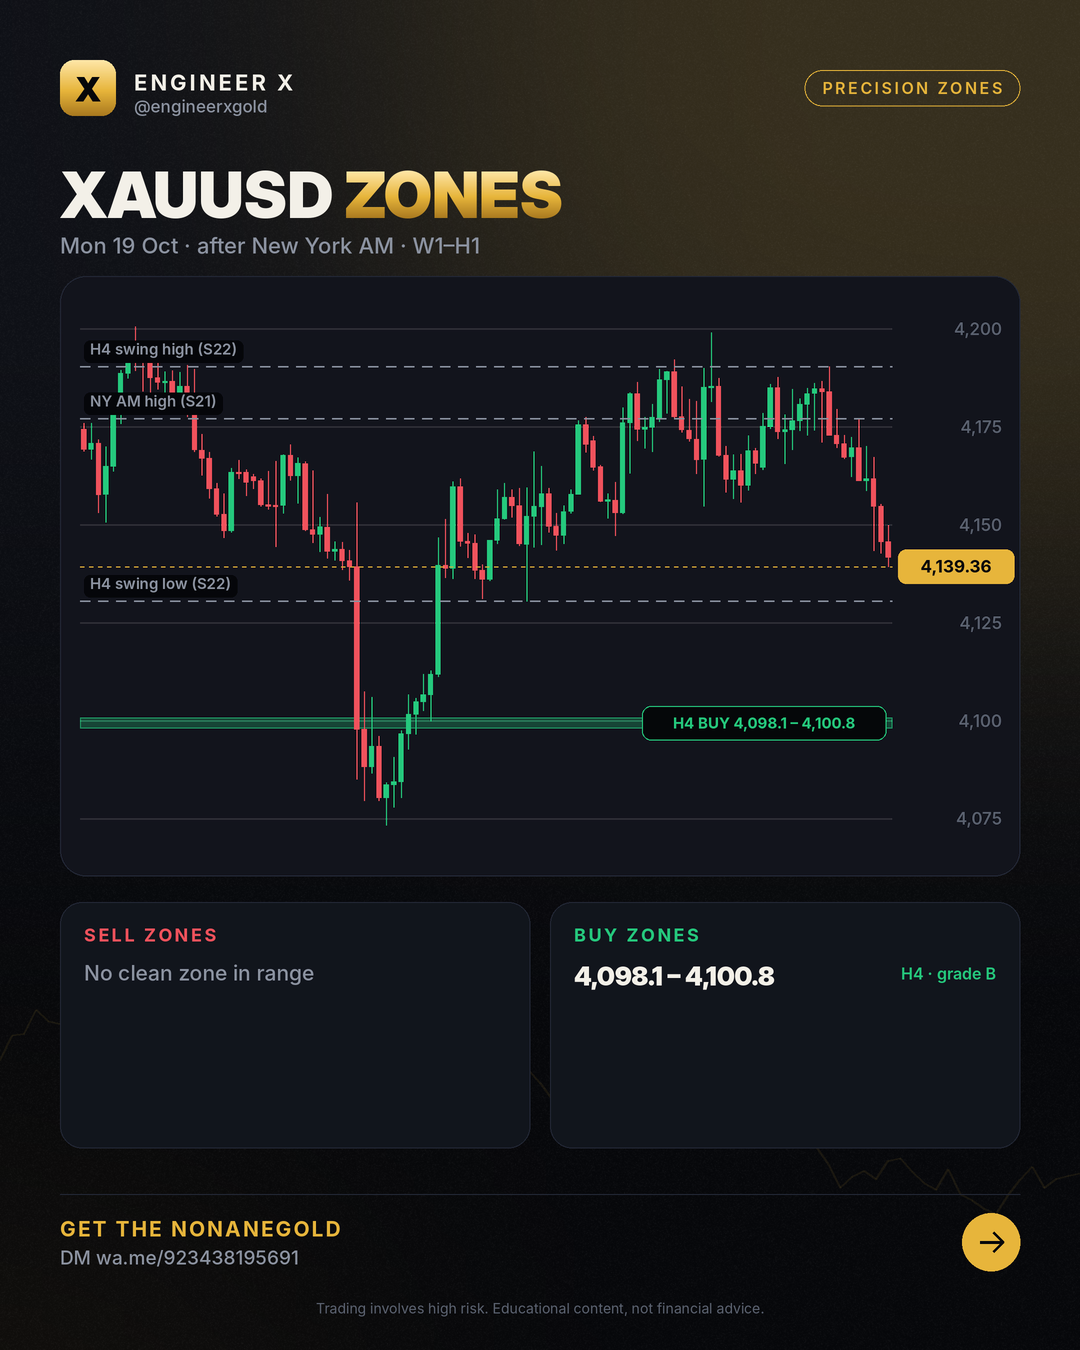
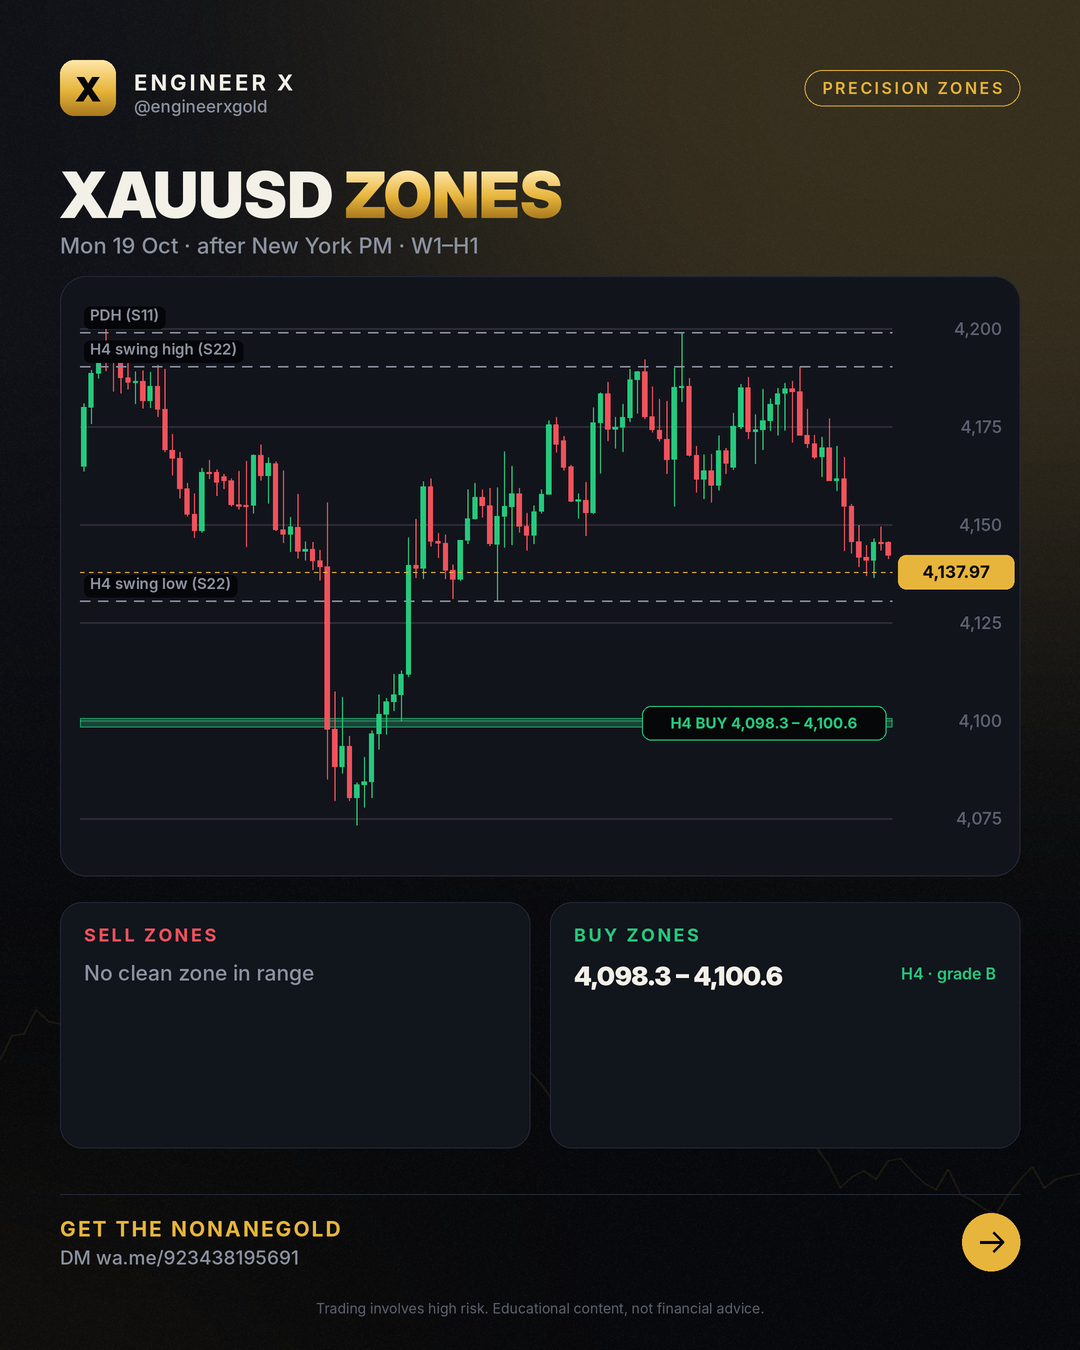
zones 2026-10-19 Mon 19 Oct · after New York PM · W1–H1

diff --git a/zones/2026-10-19/index.html b/zones/2026-10-19/index.html
@@ -4,7 +4,7 @@
 <meta charset="utf-8">
 <meta name="viewport" content="width=device-width,initial-scale=1">
 <title>Xauusd Price – 19 Oct 2026 (W1–H1)</title>
-<meta name="description" content="XAUUSD buy and sell zones for 2026-10-19: tested W1, D1, H4 and H1 zones with invalidation levels, updated after the Asian, London and New York sessions. Price 4,139.36.">
+<meta name="description" content="XAUUSD buy and sell zones for 2026-10-19: tested W1, D1, H4 and H1 zones with invalidation levels, updated after the Asian, London and New York sessions. Price 4,137.97.">
 <meta name="robots" content="index,follow,max-image-preview:large,max-snippet:-1,max-video-preview:-1">
 <meta name="author" content="Engr. M Ahmad Mehmood">
 <link rel="canonical" href="https://engineerxgold.github.io/zones/2026-10-19/">
@@ -12,7 +12,7 @@
 <link rel="apple-touch-icon" href="../../img/logo.png">
 <meta property="og:site_name" content="Engineer X">
 <meta property="og:title" content="Xauusd Price – 19 Oct 2026 (W1–H1)">
-<meta property="og:description" content="XAUUSD buy and sell zones for 2026-10-19: tested W1, D1, H4 and H1 zones with invalidation levels, updated after the Asian, London and New York sessions. Price 4,139.36.">
+<meta property="og:description" content="XAUUSD buy and sell zones for 2026-10-19: tested W1, D1, H4 and H1 zones with invalidation levels, updated after the Asian, London and New York sessions. Price 4,137.97.">
 <meta property="og:type" content="article">
 <meta property="og:url" content="https://engineerxgold.github.io/zones/2026-10-19/">
 <meta property="og:image" content="https://engineerxgold.github.io/zones/img/2026-10-19.png">
@@ -22,7 +22,7 @@
 <meta property="og:locale" content="en_US">
 <meta name="twitter:card" content="summary_large_image">
 <meta name="twitter:title" content="Xauusd Price – 19 Oct 2026 (W1–H1)">
-<meta name="twitter:description" content="XAUUSD buy and sell zones for 2026-10-19: tested W1, D1, H4 and H1 zones with invalidation levels, updated after the Asian, London and New York sessions. Price 4,139.36.">
+<meta name="twitter:description" content="XAUUSD buy and sell zones for 2026-10-19: tested W1, D1, H4 and H1 zones with invalidation levels, updated after the Asian, London and New York sessions. Price 4,137.97.">
 <meta name="twitter:image" content="https://engineerxgold.github.io/zones/img/2026-10-19.png">
 <meta name="twitter:image:alt" content="Xauusd Price – 19 Oct 2026 (W1–H1)">
 
@@ -32,7 +32,7 @@
 <link rel="preconnect" href="https://fonts.googleapis.com">
 <link rel="preconnect" href="https://fonts.gstatic.com" crossorigin>
 <link href="https://fonts.googleapis.com/css2?family=Inter:wght@400;500;600;800;900&display=swap" rel="stylesheet">
-<script type="application/ld+json">{"@context": "https://schema.org", "@type": "Organization", "@id": "https://engineerxgold.github.io/#organization", "name": "Engineer X", "url": "https://engineerxgold.github.io/", "logo": {"@type": "ImageObject", "url": "https://engineerxgold.github.io/img/logo.png", "width": 512, "height": 512}, "sameAs": ["https://t.me/engineerxgold"]}</script><script type="application/ld+json">{"@context": "https://schema.org", "@type": "Article", "headline": "Xauusd Price – 19 Oct 2026 (W1–H1)", "datePublished": "2026-10-19T08:00:00+05:00", "dateModified": "2026-10-19T21:03:57+05:00", "author": {"@type": "Person", "@id": "https://engineerxgold.github.io/about/#author", "name": "Engr. M Ahmad Mehmood", "url": "https://engineerxgold.github.io/about/", "jobTitle": "MQL5 Expert Advisor developer and gold market analyst", "worksFor": {"@id": "https://engineerxgold.github.io/#organization"}}, "publisher": {"@id": "https://engineerxgold.github.io/#organization"}, "image": "https://engineerxgold.github.io/zones/img/2026-10-19.png", "mainEntityOfPage": "https://engineerxgold.github.io/zones/2026-10-19/"}</script>
+<script type="application/ld+json">{"@context": "https://schema.org", "@type": "Organization", "@id": "https://engineerxgold.github.io/#organization", "name": "Engineer X", "url": "https://engineerxgold.github.io/", "logo": {"@type": "ImageObject", "url": "https://engineerxgold.github.io/img/logo.png", "width": 512, "height": 512}, "sameAs": ["https://t.me/engineerxgold"]}</script><script type="application/ld+json">{"@context": "https://schema.org", "@type": "Article", "headline": "Xauusd Price – 19 Oct 2026 (W1–H1)", "datePublished": "2026-10-19T08:00:00+05:00", "dateModified": "2026-10-20T02:03:03+05:00", "author": {"@type": "Person", "@id": "https://engineerxgold.github.io/about/#author", "name": "Engr. M Ahmad Mehmood", "url": "https://engineerxgold.github.io/about/", "jobTitle": "MQL5 Expert Advisor developer and gold market analyst", "worksFor": {"@id": "https://engineerxgold.github.io/#organization"}}, "publisher": {"@id": "https://engineerxgold.github.io/#organization"}, "image": "https://engineerxgold.github.io/zones/img/2026-10-19.png", "mainEntityOfPage": "https://engineerxgold.github.io/zones/2026-10-19/"}</script>
 
 <style>
 :root{--gold:#E7B53B;--gold-hi:#FFE7A8;--bg:#07080B;--bg2:#0E1016;--panel:#12151D;--line:#232836;--green:#25C97D;--red:#F0525C;--text:#F3F0E8;--muted:#8C93A1}
@@ -101,7 +101,7 @@ footer .fl a{color:var(--muted);margin-right:16px}
 <div class="wrap">
 <nav><a class="logo" href="../../"><b>X</b>Engineer X</a>
 <div class="links"><a href="../../zones/">Daily Zones</a><a href="../../blog/">Learn</a><a href="../../ea/">Gold EA</a><a href="../../about/">About</a><a class="cta" href="https://wa.me/923438195691">Get the EA</a></div></nav>
-<article><p class="crumbs"><a href="../../">Home</a> › <a href="../">Zones</a> › 2026-10-19</p><h1>Xauusd Price – 19 Oct 2026 (W1–H1)</h1><p class="byline">Mon 19 Oct · after New York AM · W1–H1 · by Engr. M Ahmad Mehmood</p><img src="../img/2026-10-19.png" alt="XAUUSD zone map 2026-10-19" width="1080" height="1350" loading="eager"><h2>Zones</h2><div style="overflow-x:auto"><table style="width:100%;border-collapse:collapse;font-size:15px"><tr><th align=left>Zone</th><th align=left>Price band</th><th>Grade</th><th align=left>Invalid</th><th align=left>Why</th></tr><tr><td>H4 buy</td><td><b>4,098.11 – 4,100.79</b></td><td>B</td><td>below 4,086.02</td><td>OTE 0.705 of the H4 leg 4073.37 → 4161.78 (S35; 0.62–0.79 = 4106.97–4091.94)</td></tr></table></div><h2>How to read this map</h2><p>Bands are where price is expected to react; they are not entries. Trading beyond the invalidation price ends the zone; each zone counts once (first touch). Highs and lows listed as liquidity are targets: on 10 years of gold price ran through them more often than through random levels.</p><div class="ctabox"><h3>🤖 Trade the zones with the NonaneGold</h3><p>Free signals group access + setup help Message us and we will help you set it up.</p><div class="btns"><a class="btn gold" href="https://wa.me/923438195691">Get the EA on Telegram</a><a class="btn ghost" href="../../ea/">About the EA</a></div></div></article>
+<article><p class="crumbs"><a href="../../">Home</a> › <a href="../">Zones</a> › 2026-10-19</p><h1>Xauusd Price – 19 Oct 2026 (W1–H1)</h1><p class="byline">Mon 19 Oct · after New York PM · W1–H1 · by Engr. M Ahmad Mehmood</p><img src="../img/2026-10-19.png" alt="XAUUSD zone map 2026-10-19" width="1080" height="1350" loading="eager"><h2>Zones</h2><div style="overflow-x:auto"><table style="width:100%;border-collapse:collapse;font-size:15px"><tr><th align=left>Zone</th><th align=left>Price band</th><th>Grade</th><th align=left>Invalid</th><th align=left>Why</th></tr><tr><td>H4 buy</td><td><b>4,098.28 – 4,100.63</b></td><td>B</td><td>below 4,087.70</td><td>OTE 0.705 of the H4 leg 4073.37 → 4161.78 (S35; 0.62–0.79 = 4106.97–4091.94)</td></tr></table></div><h2>How to read this map</h2><p>Bands are where price is expected to react; they are not entries. Trading beyond the invalidation price ends the zone; each zone counts once (first touch). Highs and lows listed as liquidity are targets: on 10 years of gold price ran through them more often than through random levels.</p><div class="ctabox"><h3>🤖 Trade the zones with the NonaneGold</h3><p>Free signals group access + setup help Message us and we will help you set it up.</p><div class="btns"><a class="btn gold" href="https://wa.me/923438195691">Get the EA on Telegram</a><a class="btn ghost" href="../../ea/">About the EA</a></div></div></article>
 <footer>
 <div class="warn"><b>Risk warning:</b> Trading gold, forex and CFDs carries a high risk of losing money and is not suitable for everyone. Past results do not guarantee future results. Everything on this site is educational and not financial advice. We are an introducing partner of our broker and may earn a commission on accounts opened through our link.</div>
 <p class="fl" style="margin-top:18px"><a href="../../about/">About &amp; methodology</a><a href="../../privacy.html">Privacy</a><a href="../../terms.html">Terms &amp; risk disclosure</a><a href="../../feed.xml">RSS</a><a href="https://t.me/engineerxgold">Telegram</a></p>

diff --git a/zones/index.html b/zones/index.html
@@ -4,7 +4,7 @@
 <meta charset="utf-8">
 <meta name="viewport" content="width=device-width,initial-scale=1">
 <title>XAUUSD Zones Today – Buy &amp; Sell Zones (H4, H1) | Engineer X</title>
-<meta name="description" content="XAUUSD buy and sell zones for 2026-10-19: tested W1, D1, H4 and H1 zones with invalidation levels, updated after the Asian, London and New York sessions. Price 4,139.36.">
+<meta name="description" content="XAUUSD buy and sell zones for 2026-10-19: tested W1, D1, H4 and H1 zones with invalidation levels, updated after the Asian, London and New York sessions. Price 4,137.97.">
 <meta name="robots" content="index,follow,max-image-preview:large,max-snippet:-1,max-video-preview:-1">
 <meta name="author" content="Engr. M Ahmad Mehmood">
 <link rel="canonical" href="https://engineerxgold.github.io/zones/">
@@ -12,7 +12,7 @@
 <link rel="apple-touch-icon" href="../img/logo.png">
 <meta property="og:site_name" content="Engineer X">
 <meta property="og:title" content="XAUUSD Zones Today – Buy &amp; Sell Zones (H4, H1) | Engineer X">
-<meta property="og:description" content="XAUUSD buy and sell zones for 2026-10-19: tested W1, D1, H4 and H1 zones with invalidation levels, updated after the Asian, London and New York sessions. Price 4,139.36.">
+<meta property="og:description" content="XAUUSD buy and sell zones for 2026-10-19: tested W1, D1, H4 and H1 zones with invalidation levels, updated after the Asian, London and New York sessions. Price 4,137.97.">
 <meta property="og:type" content="website">
 <meta property="og:url" content="https://engineerxgold.github.io/zones/">
 <meta property="og:image" content="https://engineerxgold.github.io/zones/img/2026-10-19.png">
@@ -22,7 +22,7 @@
 <meta property="og:locale" content="en_US">
 <meta name="twitter:card" content="summary_large_image">
 <meta name="twitter:title" content="XAUUSD Zones Today – Buy &amp; Sell Zones (H4, H1) | Engineer X">
-<meta name="twitter:description" content="XAUUSD buy and sell zones for 2026-10-19: tested W1, D1, H4 and H1 zones with invalidation levels, updated after the Asian, London and New York sessions. Price 4,139.36.">
+<meta name="twitter:description" content="XAUUSD buy and sell zones for 2026-10-19: tested W1, D1, H4 and H1 zones with invalidation levels, updated after the Asian, London and New York sessions. Price 4,137.97.">
 <meta name="twitter:image" content="https://engineerxgold.github.io/zones/img/2026-10-19.png">
 <meta name="twitter:image:alt" content="XAUUSD Zones Today – Buy &amp; Sell Zones (H4, H1) | Engineer X">
 
@@ -101,7 +101,7 @@ footer .fl a{color:var(--muted);margin-right:16px}
 <div class="wrap">
 <nav><a class="logo" href="../"><b>X</b>Engineer X</a>
 <div class="links"><a href="../zones/">Daily Zones</a><a href="../blog/">Learn</a><a href="../ea/">Gold EA</a><a href="../about/">About</a><a class="cta" href="https://wa.me/923438195691">Get the EA</a></div></nav>
-<section class="hero"><span class="chip">Updated Mon 19 Oct · after New York AM · W1–H1</span><h1>XAUUSD <span class="gold">precision zones</span></h1><p>XAUUSD buy and sell zones for 2026-10-19: tested W1, D1, H4 and H1 zones with invalidation levels, updated after the Asian, London and New York sessions. Price 4,139.36.</p></section><img src="img/2026-10-19.png" alt="Latest XAUUSD zone map" width="1080" height="1350"><section><h2>Current zones</h2><div style="overflow-x:auto"><table style="width:100%;border-collapse:collapse;font-size:15px"><tr><th align=left>Zone</th><th align=left>Price band</th><th>Grade</th><th align=left>Invalid</th><th align=left>Why</th></tr><tr><td>H4 buy</td><td><b>4,098.11 – 4,100.79</b></td><td>B</td><td>below 4,086.02</td><td>OTE 0.705 of the H4 leg 4073.37 → 4161.78 (S35; 0.62–0.79 = 4106.97–4091.94)</td></tr></table></div></section><section><h2>Honest scorecard</h2><div class="grid"><div class="card"><div class="n">125</div><p>zones published (30 days)</p></div><div class="card"><div class="n">48</div><p>held (moved 1 hourly ATR away)</p></div><div class="card"><div class="n">4</div><p>broke (traded beyond the invalidation)</p></div><div class="card"><div class="n">92%</div><p>hold rate of decided zones</p></div></div></section><div class="ctabox"><h3>🤖 Trade the zones with the NonaneGold</h3><p>Free signals group access + setup help Message us and we will help you set it up.</p><div class="btns"><a class="btn gold" href="https://wa.me/923438195691">Get the EA on Telegram</a><a class="btn ghost" href="../ea/">About the EA</a></div></div><section><h2>Archive</h2><div class="grid posts"><a class="card" href="2026-10-19/"><span class="date">2026-10-19</span><h3>XAUUSD zones 2026-10-19</h3></a><a class="card" href="2026-10-16/"><span class="date">2026-10-16</span><h3>XAUUSD zones 2026-10-16</h3></a><a class="card" href="2026-10-15/"><span class="date">2026-10-15</span><h3>XAUUSD zones 2026-10-15</h3></a><a class="card" href="2026-10-14/"><span class="date">2026-10-14</span><h3>XAUUSD zones 2026-10-14</h3></a><a class="card" href="2026-10-13/"><span class="date">2026-10-13</span><h3>XAUUSD zones 2026-10-13</h3></a></div></section>
+<section class="hero"><span class="chip">Updated Mon 19 Oct · after New York PM · W1–H1</span><h1>XAUUSD <span class="gold">precision zones</span></h1><p>XAUUSD buy and sell zones for 2026-10-19: tested W1, D1, H4 and H1 zones with invalidation levels, updated after the Asian, London and New York sessions. Price 4,137.97.</p></section><img src="img/2026-10-19.png" alt="Latest XAUUSD zone map" width="1080" height="1350"><section><h2>Current zones</h2><div style="overflow-x:auto"><table style="width:100%;border-collapse:collapse;font-size:15px"><tr><th align=left>Zone</th><th align=left>Price band</th><th>Grade</th><th align=left>Invalid</th><th align=left>Why</th></tr><tr><td>H4 buy</td><td><b>4,098.28 – 4,100.63</b></td><td>B</td><td>below 4,087.70</td><td>OTE 0.705 of the H4 leg 4073.37 → 4161.78 (S35; 0.62–0.79 = 4106.97–4091.94)</td></tr></table></div></section><section><h2>Honest scorecard</h2><div class="grid"><div class="card"><div class="n">125</div><p>zones published (30 days)</p></div><div class="card"><div class="n">49</div><p>held (moved 1 hourly ATR away)</p></div><div class="card"><div class="n">5</div><p>broke (traded beyond the invalidation)</p></div><div class="card"><div class="n">91%</div><p>hold rate of decided zones</p></div></div></section><div class="ctabox"><h3>🤖 Trade the zones with the NonaneGold</h3><p>Free signals group access + setup help Message us and we will help you set it up.</p><div class="btns"><a class="btn gold" href="https://wa.me/923438195691">Get the EA on Telegram</a><a class="btn ghost" href="../ea/">About the EA</a></div></div><section><h2>Archive</h2><div class="grid posts"><a class="card" href="2026-10-19/"><span class="date">2026-10-19</span><h3>XAUUSD zones 2026-10-19</h3></a><a class="card" href="2026-10-16/"><span class="date">2026-10-16</span><h3>XAUUSD zones 2026-10-16</h3></a><a class="card" href="2026-10-15/"><span class="date">2026-10-15</span><h3>XAUUSD zones 2026-10-15</h3></a><a class="card" href="2026-10-14/"><span class="date">2026-10-14</span><h3>XAUUSD zones 2026-10-14</h3></a><a class="card" href="2026-10-13/"><span class="date">2026-10-13</span><h3>XAUUSD zones 2026-10-13</h3></a></div></section>
 <footer>
 <div class="warn"><b>Risk warning:</b> Trading gold, forex and CFDs carries a high risk of losing money and is not suitable for everyone. Past results do not guarantee future results. Everything on this site is educational and not financial advice. We are an introducing partner of our broker and may earn a commission on accounts opened through our link.</div>
 <p class="fl" style="margin-top:18px"><a href="../about/">About &amp; methodology</a><a href="../privacy.html">Privacy</a><a href="../terms.html">Terms &amp; risk disclosure</a><a href="../feed.xml">RSS</a><a href="https://t.me/engineerxgold">Telegram</a></p>

diff --git a/index.html b/index.html
@@ -101,7 +101,7 @@ footer .fl a{color:var(--muted);margin-right:16px}
 <div class="wrap">
 <nav><a class="logo" href="./"><b>X</b>Engineer X</a>
 <div class="links"><a href="./zones/">Daily Zones</a><a href="./blog/">Learn</a><a href="./ea/">Gold EA</a><a href="./about/">About</a><a class="cta" href="https://wa.me/923438195691">Get the EA</a></div></nav>
-<section class="hero"><span class="chip">XAUUSD · W1–H1 · every session</span><h1>Gold <span class="gold">precision zones</span>, updated after every session</h1><p>Tested buy and sell zones with clear invalidation, a scorecard of every result, and the NonaneGold for traders who want it automated.</p><div class="btns"><a class="btn gold" href="zones/">See today's zones</a><a class="btn ghost" href="https://wa.me/923438195691">Get the EA</a></div></section><section><h2>Latest map Mon 19 Oct · after New York AM · W1–H1</h2><img src="zones/img/2026-10-19.png" alt="Latest XAUUSD zones" width="1080" height="1350"></section><div class="ctabox"><h3>🤖 Trade the zones with the NonaneGold</h3><p>Free signals group access + setup help Message us and we will help you set it up.</p><div class="btns"><a class="btn gold" href="https://wa.me/923438195691">Get the EA on Telegram</a><a class="btn ghost" href="ea/">About the EA</a></div></div><section><h2>Learn</h2><div class="grid posts"><a class="card" href="blog/gold-trading-reading-h4-trend-liquidity-zones/"><span class="date">2026-10-19</span><h3>Gold Trading: Reading H4 Trend &amp; Liquidity Zones</h3></a><a class="card" href="blog/gold-support-resistance-live-technical-map-zones/"><span class="date">2026-10-18</span><h3>Gold Support Resistance: Live Technical Map &amp; Zones</h3></a><a class="card" href="blog/gold-supply-and-demand-zones-live-trading-map-guide/"><span class="date">2026-10-17</span><h3>Gold Supply and Demand Zones: Live Trading Map &amp; Guide</h3></a><a class="card" href="blog/gold-trading-h4-trend-and-live-market-zones-map/"><span class="date">2026-10-16</span><h3>Gold Trading: H4 Trend and Live Market Zones Map</h3></a><a class="card" href="blog/gold-price-today-navigating-h4-downtrend-key-zones/"><span class="date">2026-10-15</span><h3>Gold Price Today: Navigating H4 Downtrend &amp; Key Zones</h3></a><a class="card" href="blog/gold-supply-and-demand-zones-h4-h1-trading-map/"><span class="date">2026-10-14</span><h3>Gold Supply and Demand Zones: H4 &amp; H1 Trading Map</h3></a></div></section><section><h2>FAQ</h2><details><summary>What is a precision zone?</summary><p>A point of interest from a trading book (OTE 0.705, balanced price range, weekly close level, daily order block) that held better than random levels on 10 years of gold. Each zone has an invalidation price.</p></details><details><summary>How often are the zones updated?</summary><p>A daily plan at the Asian open, then after the Asian, London and New York sessions.</p></details><details><summary>Are these trade signals?</summary><p>No. Zones are areas to watch. Wait for your own confirmation and manage risk.</p></details><details><summary>How do I get the Gold EA?</summary><p>Message us on Telegram or WhatsApp; we answer and help with the setup.</p></details></section>
+<section class="hero"><span class="chip">XAUUSD · W1–H1 · every session</span><h1>Gold <span class="gold">precision zones</span>, updated after every session</h1><p>Tested buy and sell zones with clear invalidation, a scorecard of every result, and the NonaneGold for traders who want it automated.</p><div class="btns"><a class="btn gold" href="zones/">See today's zones</a><a class="btn ghost" href="https://wa.me/923438195691">Get the EA</a></div></section><section><h2>Latest map Mon 19 Oct · after New York PM · W1–H1</h2><img src="zones/img/2026-10-19.png" alt="Latest XAUUSD zones" width="1080" height="1350"></section><div class="ctabox"><h3>🤖 Trade the zones with the NonaneGold</h3><p>Free signals group access + setup help Message us and we will help you set it up.</p><div class="btns"><a class="btn gold" href="https://wa.me/923438195691">Get the EA on Telegram</a><a class="btn ghost" href="ea/">About the EA</a></div></div><section><h2>Learn</h2><div class="grid posts"><a class="card" href="blog/gold-trading-reading-h4-trend-liquidity-zones/"><span class="date">2026-10-19</span><h3>Gold Trading: Reading H4 Trend &amp; Liquidity Zones</h3></a><a class="card" href="blog/gold-support-resistance-live-technical-map-zones/"><span class="date">2026-10-18</span><h3>Gold Support Resistance: Live Technical Map &amp; Zones</h3></a><a class="card" href="blog/gold-supply-and-demand-zones-live-trading-map-guide/"><span class="date">2026-10-17</span><h3>Gold Supply and Demand Zones: Live Trading Map &amp; Guide</h3></a><a class="card" href="blog/gold-trading-h4-trend-and-live-market-zones-map/"><span class="date">2026-10-16</span><h3>Gold Trading: H4 Trend and Live Market Zones Map</h3></a><a class="card" href="blog/gold-price-today-navigating-h4-downtrend-key-zones/"><span class="date">2026-10-15</span><h3>Gold Price Today: Navigating H4 Downtrend &amp; Key Zones</h3></a><a class="card" href="blog/gold-supply-and-demand-zones-h4-h1-trading-map/"><span class="date">2026-10-14</span><h3>Gold Supply and Demand Zones: H4 &amp; H1 Trading Map</h3></a></div></section><section><h2>FAQ</h2><details><summary>What is a precision zone?</summary><p>A point of interest from a trading book (OTE 0.705, balanced price range, weekly close level, daily order block) that held better than random levels on 10 years of gold. Each zone has an invalidation price.</p></details><details><summary>How often are the zones updated?</summary><p>A daily plan at the Asian open, then after the Asian, London and New York sessions.</p></details><details><summary>Are these trade signals?</summary><p>No. Zones are areas to watch. Wait for your own confirmation and manage risk.</p></details><details><summary>How do I get the Gold EA?</summary><p>Message us on Telegram or WhatsApp; we answer and help with the setup.</p></details></section>
 <footer>
 <div class="warn"><b>Risk warning:</b> Trading gold, forex and CFDs carries a high risk of losing money and is not suitable for everyone. Past results do not guarantee future results. Everything on this site is educational and not financial advice. We are an introducing partner of our broker and may earn a commission on accounts opened through our link.</div>
 <p class="fl" style="margin-top:18px"><a href="./about/">About &amp; methodology</a><a href="./privacy.html">Privacy</a><a href="./terms.html">Terms &amp; risk disclosure</a><a href="./feed.xml">RSS</a><a href="https://t.me/engineerxgold">Telegram</a></p>
